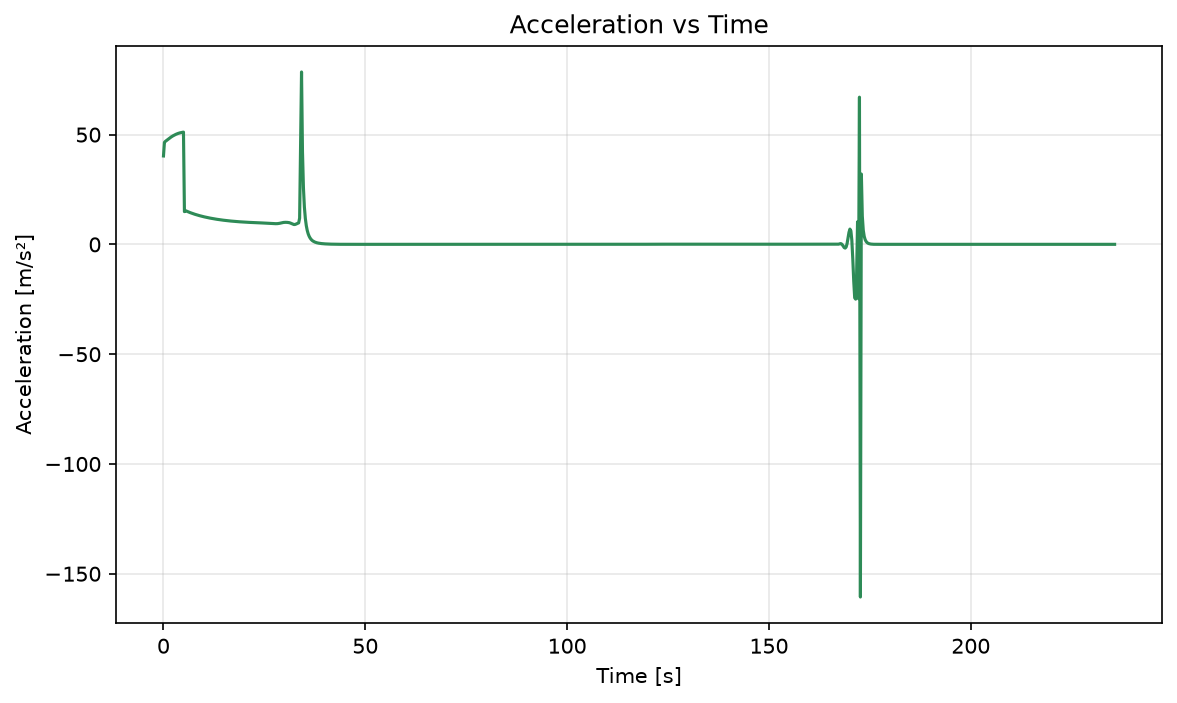
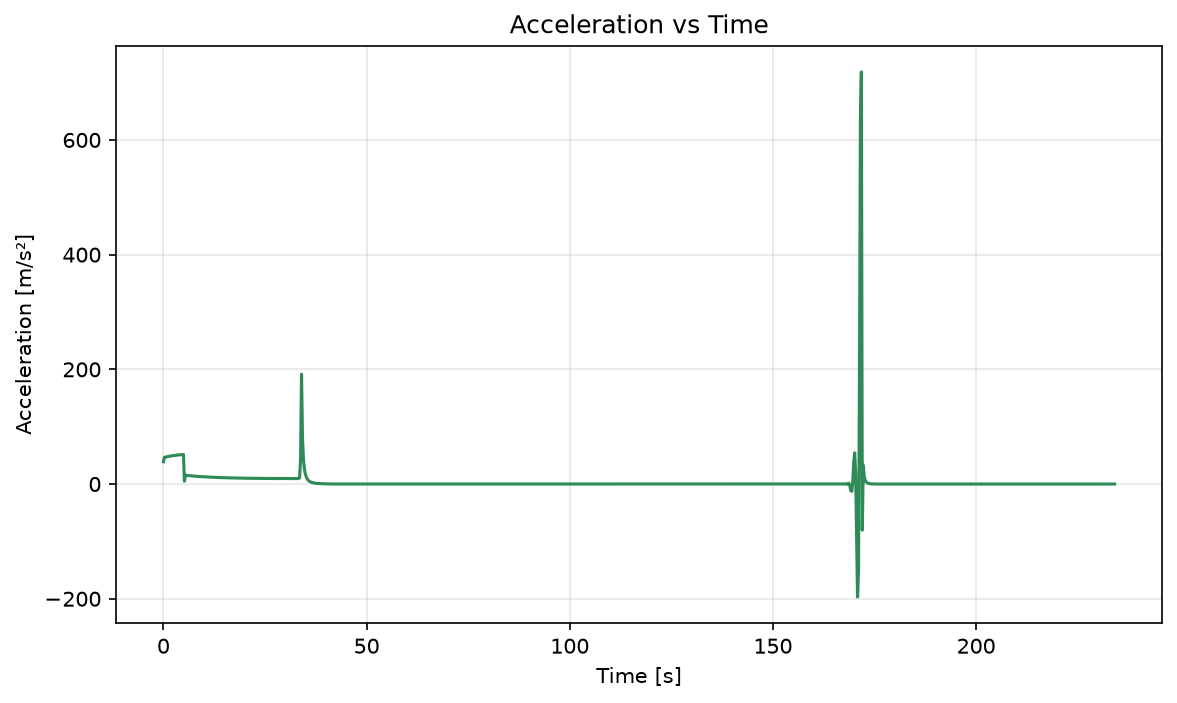
create new column for the masses in the case CoM == 1

diff --git a/RocketPy_26/class_structure.py b/RocketPy_26/class_structure.py
@@ -12,7 +12,13 @@ from openpyxl import load_workbook
 SHEET_NAME   = "Structure"
 NAME_COLUMN  = "A"
 VALUE_COLUMN = "B"
+COM1_VALUE_COLUMN = "D" # colonne utilisée pour les masses quand mode_CoM == 1
 FIRST_DATA_ROW = 2
+
+MASS_FIELDS = {
+    "m_bt", "m_ebay", "m_lox", "m_aerocover", "m_pbay1", "m_eth", 
+    "m_pbay2", "m_avbay", "m_rebay", "m_nosecone", "m_fins",
+}
 
 
 @dataclass
@@ -144,10 +150,12 @@ def read_structure(filepath: str | Path, sheet_name: str = SHEET_NAME) -> Struct
     ws = wb[sheet_name]
     name_col_idx  = ord(NAME_COLUMN)  - ord("A") + 1
     value_col_idx = ord(VALUE_COLUMN) - ord("A") + 1
+    com1_col_idx = ord(COM1_VALUE_COLUMN) - ord("A") + 1
 
     bool_fields = {"tank_spherical_caps", "copv_spherical_caps"}
 
     file_values: dict[str, float | bool] = {}
+    com1_values: dict[str, float] = {} # colonne de masses dans le cas CoM == 1
     for row in range(FIRST_DATA_ROW, ws.max_row + 1):
         name = ws.cell(row=row, column=name_col_idx).value
         if not isinstance(name, str):
@@ -166,6 +174,18 @@ def read_structure(filepath: str | Path, sheet_name: str = SHEET_NAME) -> Struct
         parsed = _try_to_float(raw)
         if parsed is not None:
             file_values[name] = parsed
+
+        # Colonne alternative pour les masses si CoM == 1
+        if name in MASS_FIELDS:
+            com1_mass = _try_to_float(ws.cell(row=row, column=com1_col_idx).value)
+            if com1_mass is not None:
+                com1_values[name] = com1_mass
+
+    # Choix de la colonne selon mode_CoM
+    mode_CoM = int(file_values.get("mode_CoM", Structure.mode_CoM))
+    if mode_CoM == 1:
+        file_values.update(com1_values)
+
 
     valid = {f.name for f in fields(Structure)}
     unknown = set(file_values) - valid
